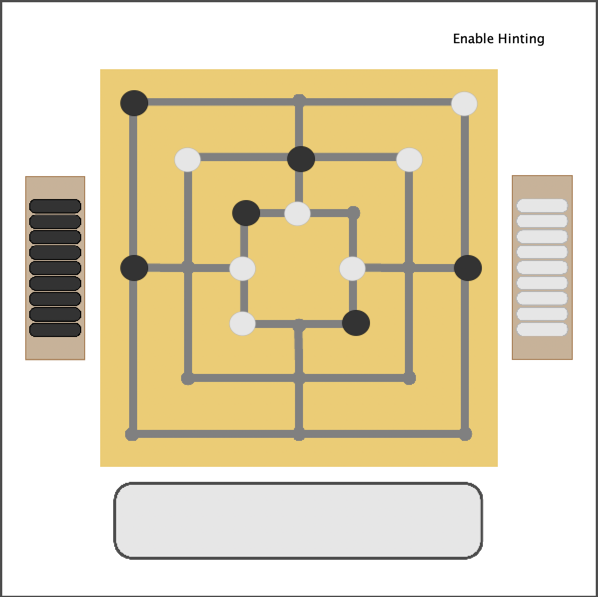
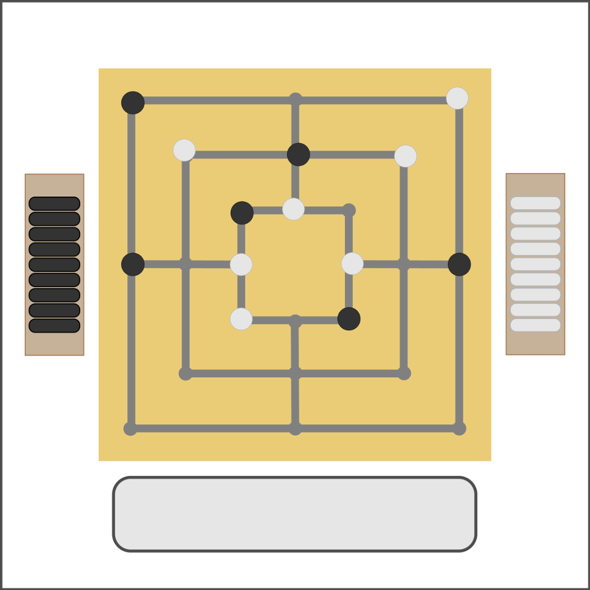
updated saturated board image

diff --git a/src/gameengine/GameBoardGui.java b/src/gameengine/GameBoardGui.java
@@ -197,6 +197,8 @@ public class GameBoardGui extends JPanel {
     int tokensLeft = player.getTokenBank().getTokensLeft();
     System.out.println("Tokens left:" + tokensLeft);
     int coverName = totalTokens - tokensLeft;
+    System.out.println("cover name");
+    System.out.println(coverName);
     System.out.println("Cover Name:" + coverName);
     if (currentPlayer == TokenType.BLACK) {
       System.out.println(coverName);

diff --git a/src/gameengine/Game.java b/src/gameengine/Game.java
@@ -73,6 +73,8 @@ public class Game {
       }
       this.actionQueue.remove();
     }
+    System.out.println("playerTokenCount");
+
     if (!currentPlayer.getTokenBank().isEmpty()) {
       try {
         this.gameBoard.updateCover(currentPlayer);

diff --git a/src/tutorials/TwoTokenWinTutorial.java b/src/tutorials/TwoTokenWinTutorial.java
@@ -61,7 +61,7 @@ public class TwoTokenWinTutorial extends TutorialState{
      */
     @Override
     public void setPlayerQueue() {
-        super.updatePlayerQueue(true);
+        super.updatePlayerQueue(true, 2,2 );
     }
 
     @Override
